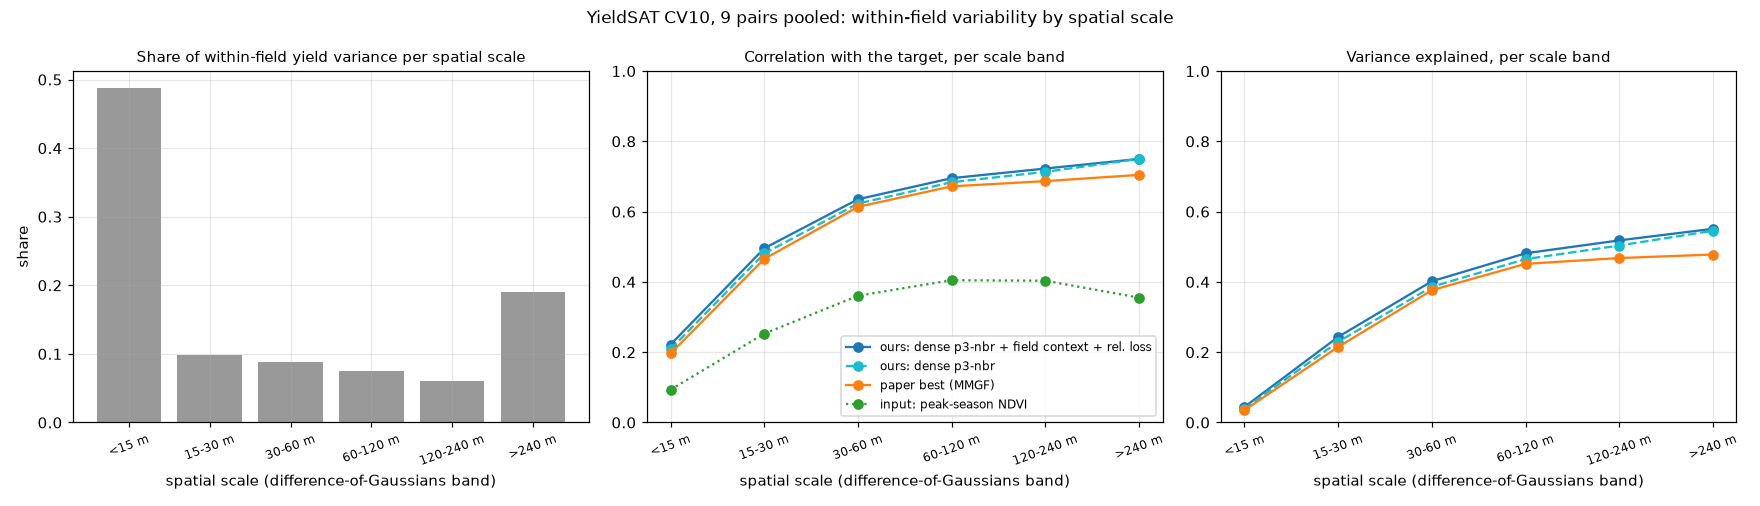
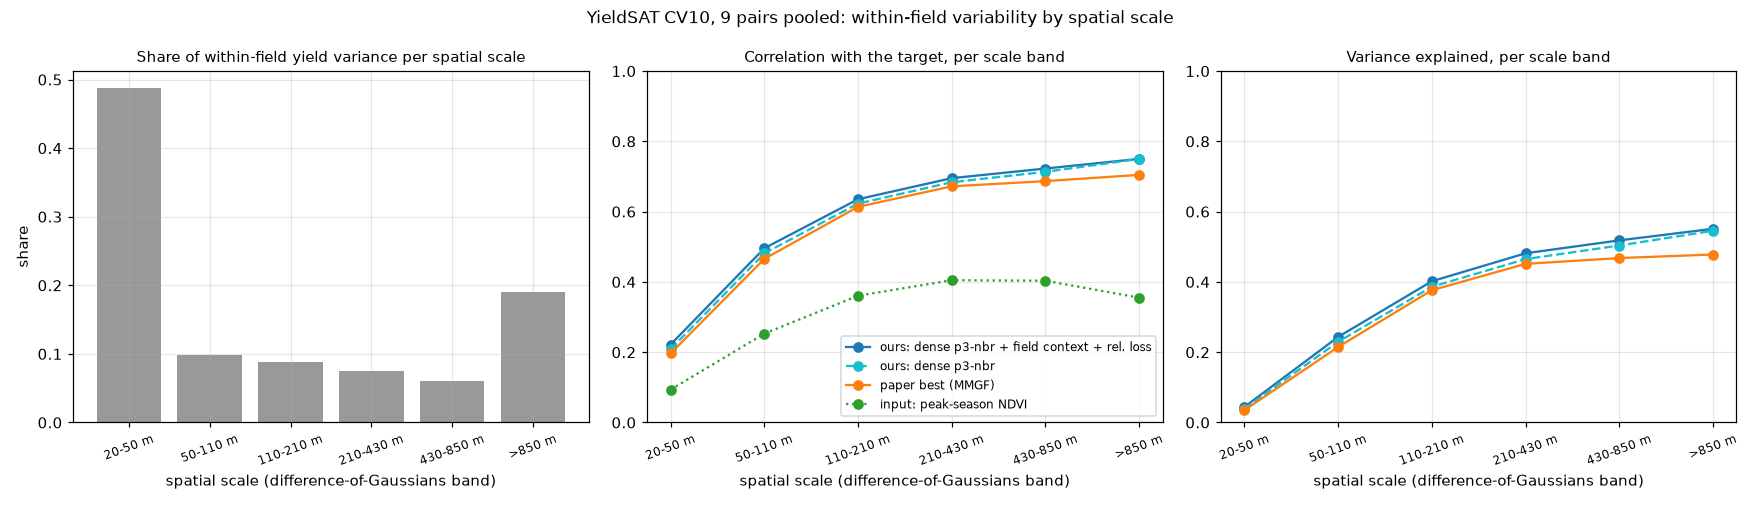
IC-B: correct the scale-band labels (wavelength ranges 20-50 m ... >850 m; the grid holds nothing below 10 m); noise share of the finest band quantified

diff --git a/yieldsat_scale_decomposition.py b/yieldsat_scale_decomposition.py
@@ -23,7 +23,10 @@ from scipy.ndimage import gaussian_filter
 from dataset.yieldsat_schema import TEMPORAL_CHANNELS
 
 SIGMAS = (1, 2, 4, 8, 16)
-BANDS = ('<15 m', '15-30 m', '30-60 m', '60-120 m', '120-240 m', '>240 m')
+# band labels = wavelength range, from the Gaussians' half-amplitude wavelengths (pi * sigma / sqrt(ln2 / 2) = 5.3 sigma
+# cells: 53, 107, 213, 427, 854 m) and the 10 m grid's shortest representable wavelength (20 m, two cells).
+# Uncorrelated cell-to-cell noise (the nugget) falls 94% into the first band.
+BANDS = ('20-50 m', '50-110 m', '110-210 m', '210-430 m', '430-850 m', '>850 m')
 COUNTRY = {'ARG': 'Argentina', 'BRA': 'Brazil', 'GER': 'Germany', 'URG': 'Uruguay'}
 PAIRS = ('ARG-C', 'ARG-S', 'ARG-W', 'BRA-C', 'BRA-S', 'BRA-W', 'GER-R', 'GER-W', 'URG-S')
 B04, B08 = TEMPORAL_CHANNELS.index('B04'), TEMPORAL_CHANNELS.index('B08')

diff --git a/spec/yieldsat-input-information.md b/spec/yieldsat-input-information.md
@@ -8,8 +8,8 @@ Within-field R² decomposes into three levels:
 3. **Cross-field models 0.25–0.29** (ours 0.29, the best).
 
 Two gaps follow:
-- **Missing from the inputs (≈ 0.22):** concentrated below 15 m, where every model explains 4% and the inputs barely
-  correlate with yield.
+- **Missing from the inputs (≈ 0.22):** concentrated at the cell-to-cell scale (20–50 m wavelengths), where every model
+  explains 4% and the inputs barely correlate with yield.
 - **Present but field-specific (≈ 0.21):** the same model class reaches 0.25 across fields vs 0.50 per field.
 
 Related:
@@ -78,8 +78,10 @@ paper model), on the field grid.
 **Decomposition:** per field season, centre the targets and predictions and place them on the 10 m grid.
 - Decompose each into bands with differences of Gaussians, using normalised convolution so that missing cells are
   handled.
-- σ ∈ {1, 2, 4, 8, 16} cells gives six bands: < 15 m, ≈ 15–30 m, 30–60 m, 60–120 m, 120–240 m, and > 240 m within the
-  field.
+- σ ∈ {1, 2, 4, 8, 16} cells gives six bands, labelled by wavelength: 20–50 m, 50–110 m, 110–210 m, 210–430 m,
+  430–850 m and > 850 m within the field.
+  - 20 m is the shortest wavelength the 10 m grid can hold (two cells).
+  - Each upper edge is the wavelength at which the Gaussian passes half the amplitude: 5.3 σ cells.
 
 **Per band and pair:**
 - **Target variance share:** where the within-field variability lives.
@@ -88,8 +90,8 @@ paper model), on the field grid.
 - **Input coherence:** the same decomposition applied to an input summary (peak-season NDVI from the monthly cache).
   The correlation of NDVI_b with y_b shows whether the inputs themselves carry the band's signal.
 
-**Expected outcome:** high correlation in the coarse bands, near zero in the finest. The finest band also holds most of
-the nugget (noise).
+**Expected outcome:** high correlation in the coarse bands, near zero in the finest. The finest band also holds 94% of
+any uncorrelated cell-to-cell noise (the nugget), checked on synthetic white noise.
 
 ## 4. IC-C: input-resolution degradation (after A + B)
 
@@ -176,7 +178,7 @@ Data: `results/scale_decomposition.json`, made by `yieldsat_scale_decomposition.
 
 ![Scale decomposition](../results/figures/input_information/scale_decomposition.png)
 
-| Band | <15 m | 15-30 m | 30-60 m | 60-120 m | 120-240 m | >240 m |
+| Band | 20-50 m | 50-110 m | 110-210 m | 210-430 m | 430-850 m | >850 m |
 |---|---|---|---|---|---|---|
 | Share of within-field variance | 0.49 | 0.10 | 0.09 | 0.08 | 0.06 | 0.19 |
 | Ours (best): explained | 0.04 | 0.24 | 0.40 | 0.48 | 0.52 | 0.55 |
@@ -187,15 +189,22 @@ Data: `results/scale_decomposition.json`, made by `yieldsat_scale_decomposition.
 | Paper best (MMGF): correlation | 0.20 | 0.47 | 0.61 | 0.67 | 0.69 | 0.70 |
 | Input peak-season NDVI: correlation | 0.09 | 0.25 | 0.36 | 0.40 | 0.40 | 0.36 |
 
+**Correction (2026-10-11):** the first version labelled the bands < 15 m … > 240 m. That conversion from σ to metres
+was wrong. The grid holds nothing below 10 m; the labels are now wavelength ranges (§3).
+
 **Reading:**
-1. **About half of within-field yield variance (0.49) is below 15 m.**
-   - Every model explains 4% of it, and peak NDVI correlates 0.09 with it.
-   - It holds the harvester noise (nugget ≈ 0.28 of the variance, field-context spec §3) and fine-scale signal that
-     Sentinel-2 cannot resolve: 10–20 m bands, the point-spread function, georegistration.
-2. **The 30–240 m bands are captured at 40–55%** of variance (correlation 0.64–0.75).
-   - Our advantage over MMGF comes from these scales: above 240 m, 0.55 vs 0.48.
+1. **About half of within-field yield variance (0.49) is at the shortest scales the 10 m grid resolves:** cell-to-cell
+   variation, wavelengths 20–50 m.
+   - Part of it is harvester noise. Uncorrelated noise falls 94% into this band, and the nugget is ≈ 0.28 of the
+     within-field variance (field-context spec §3), so ≈ 0.26 of the 0.49 is noise.
+   - The remaining ≈ 0.23 is short-range structured variability.
+   - Every model explains 4% of the band, and peak NDVI correlates 0.09 with it.
+   - Sentinel-2 cannot resolve it: 10 m visible/NIR and 20 m red-edge/SWIR bands (the 20 m bands' shortest
+     wavelength is 40 m), the point-spread function and georegistration error.
+2. **The 110–850 m bands are captured at 40–55%** of variance (correlation 0.64–0.75).
+   - Our advantage over MMGF comes from these scales: above 850 m, 0.55 vs 0.48.
 3. **Input-side check:** peak NDVI follows the same profile, 0.09 → 0.40 from fine to coarse. The inputs themselves
-   carry little information at the finest scale.
+   carry little information at the cell-to-cell scale.
 
 ### 7.3 Synthesis for the paper
 
@@ -204,7 +213,7 @@ Data: `results/scale_decomposition.json`, made by `yieldsat_scale_decomposition.
 | Level | Value | Gap to the level above | What closes the gap |
 |---|---|---|---|
 | Target noise ceiling | 0.72 | — | nothing; harvester noise |
-| Per-field input oracle | 0.50 | 0.22: signal not in the inputs, mostly < 15 m (IC-B) | finer spatial resolution (our own dataset; IC-C) |
+| Per-field input oracle | 0.50 | 0.22: signal not in the inputs, mostly at the 20–50 m cell-to-cell scale (IC-B) | finer spatial resolution (our own dataset; IC-C) |
 | Best cross-field model (ours) | 0.29 | 0.21: field-specific input-to-yield relations | more fields per condition, field-adaptive models (e.g. calibration with a few labels) |
 
 **The resolution argument holds for the first gap.** IC-B shows where the missing variability is and that no model or

diff --git a/spec/README.md b/spec/README.md
@@ -57,7 +57,7 @@ Both systems live in the same tree and share almost nothing but `util/`. Read
 | [yieldsat-field-context.md](./yieldsat-field-context.md) | Field-relative inputs for the point model (field S2 mean/std, within-field S2 z-score, within-field terrain z-scores, edge distance); within-field noise ceiling (mean 0.72 vs 0.28 reached). |
 | [yieldsat-paper-models.md](./yieldsat-paper-models.md) | The paper's best models (3D-LSTM, 3D-ConvLSTM, AFF/MMAF, MMGF) on 5×5 windows, reusable on any dataset in our artifact contract. **Done (§8):** MMGF and 3D-LSTM reproduce the paper's R² (AFF −0.03, 3D-ConvLSTM −0.05); our best model beats every paper model within fields and on pooled R², on all protocols. |
 | [yieldsat-field-encoder.md](./yieldsat-field-encoder.md) | Learned field encoder (set encoder over the field's pixels, pixel-to-field cross-attention, level/deviation or residual heads). **Closed 2026-10-11:** FE-04 not passed (within-field +0.006/+0.015, pooled −0.01/−0.02); FE-04b (warm-started residual) significantly worse; the hand-made field context stays best. |
-| [yieldsat-input-information.md](./yieldsat-input-information.md) | How much within-field information the inputs carry: within-field oracle (IC-A), scale decomposition (IC-B), resolution degradation (IC-C), mutual information (IC-D). **A+B done:** noise ceiling 0.72, per-field oracle 0.50, best cross-field model (ours) 0.29; half the within-field variance is < 15 m and no model captures it. |
+| [yieldsat-input-information.md](./yieldsat-input-information.md) | How much within-field information the inputs carry: within-field oracle (IC-A), scale decomposition (IC-B), resolution degradation (IC-C), mutual information (IC-D). **A+B done:** noise ceiling 0.72, per-field oracle 0.50, best cross-field model (ours) 0.29; half the within-field variance is at the 20–50 m cell-to-cell scale (≈ half of it noise) and no model captures it. |
 | [yieldsat-paper-protocol.md](./yieldsat-paper-protocol.md) | The paper's protocol for every model: no validation set (selection on the test fold), per pair (paper) and pooled over all pairs (reported per pair); evidence from the paper and thesis, folds, cluster runs, results. |
 | [yieldsat-paper-reproduction.md](./yieldsat-paper-reproduction.md) | Sanity check: reproduce the paper's models (IF-LSTM, 3D-LSTM with 5×5 windows, MMAF/AFF) from the paper and the Miranda thesis; known pipeline differences D1–D6 and the R0–R3 plan. |
 | [pretraining/success-criteria.md](./pretraining/success-criteria.md) | How we decide that pretraining is healthy, that the model learns the knowledge, and that it helps yield prediction (P/I/E criteria and decision rules). |
